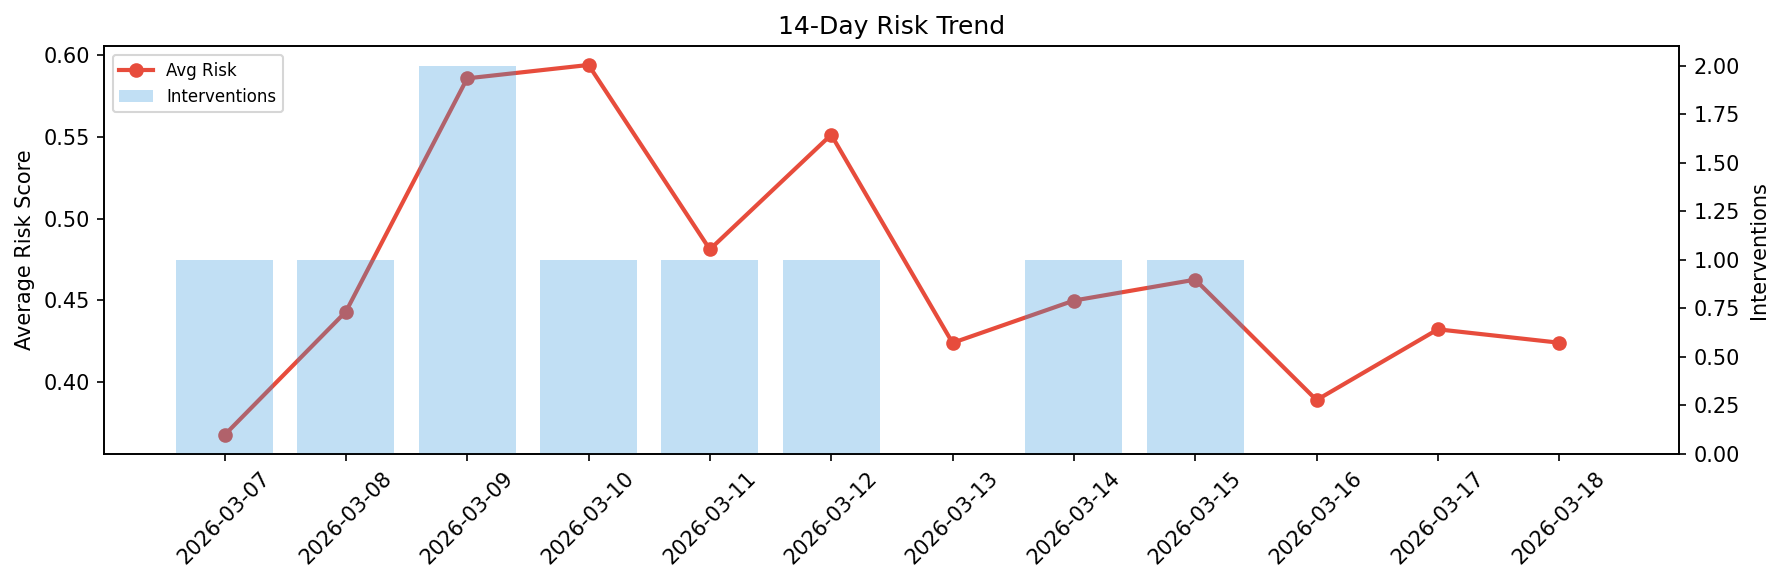
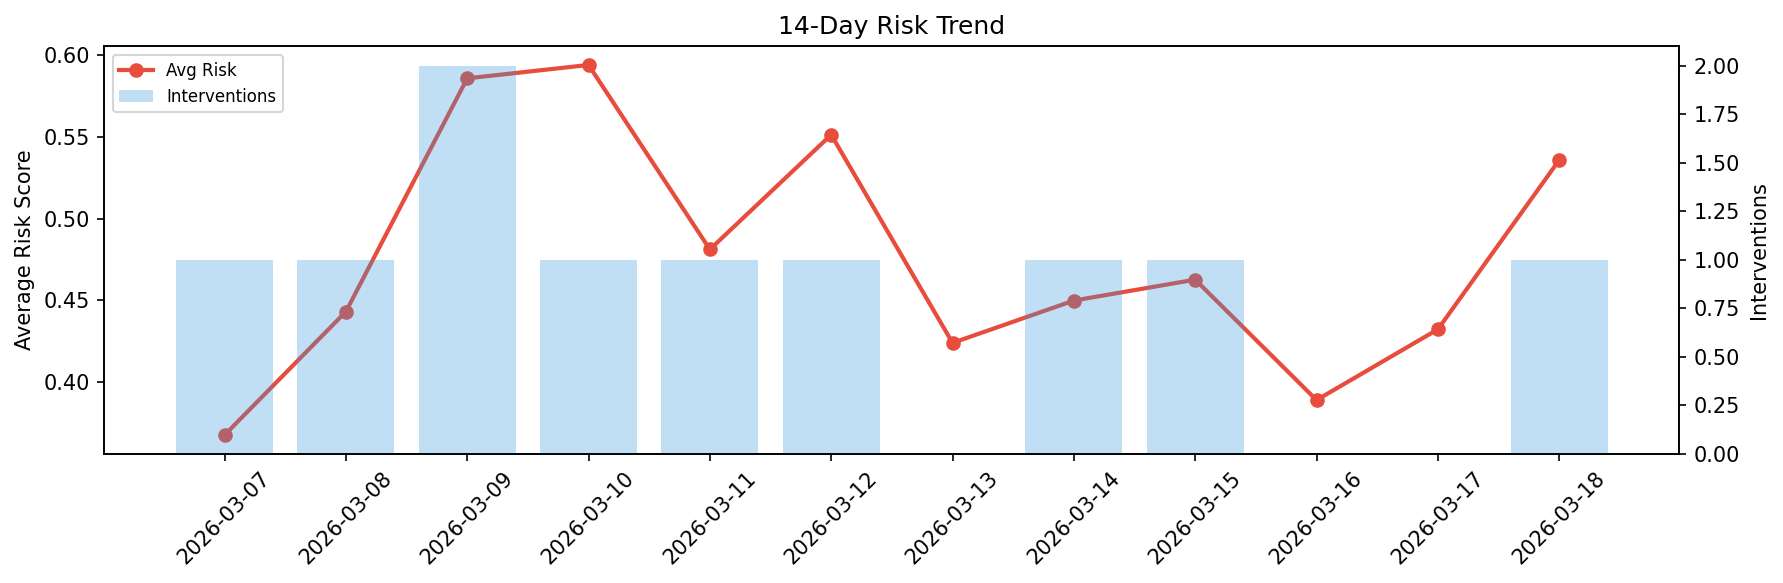
agent-improvement: daily cycle 2026-03-18T15:39

Changed region(s): [[0.802, 0.3396, 0.9254, 0.8027], [0.8637, 0.247, 0.8946, 0.3087]]

diff --git a/logs/2026-03-18.md b/logs/2026-03-18.md
@@ -1,6 +1,6 @@
 # Agent Improvement Report — 2026-03-18
 
-**Cycle ID:** `8402cc4d` | **Avg Risk:** 0.4241 | **Interventions:** 0/4
+**Cycle ID:** `d87a46e2` | **Avg Risk:** 0.5359 | **Interventions:** 1/4
 
 ![Dashboard](2026-03-18_dashboard.png)
 
@@ -10,18 +10,18 @@
 
 | Domain | Risk Score | Decision | Alerts |
 |--------|-----------|----------|--------|
-| code_review | 0.4524 | monitor | duplication |
-| incident_response | 0.4209 | monitor | mttr |
-| data_pipeline | 0.4949 | monitor | volume_anomaly |
-| deployment | 0.3284 | monitor | none |
+| code_review | 0.4952 | monitor | coverage |
+| incident_response | 0.8045 | intervene | severity, mttr |
+| data_pipeline | 0.3523 | monitor | none |
+| deployment | 0.4916 | monitor | none |
 
 ## Delta vs Yesterday
 
 | Domain | Today | Yesterday | Change |
 |--------|-------|-----------|--------|
-| code_review | 0.4524 | 0.5244 | 📉 -13.7% |
-| incident_response | 0.4209 | 0.4733 | 📉 -11.1% |
-| data_pipeline | 0.4949 | 0.4346 | 📈 13.9% |
-| deployment | 0.3284 | 0.2967 | 📈 10.7% |
+| code_review | 0.4952 | 0.5244 | 📉 -5.6% |
+| incident_response | 0.8045 | 0.4733 | 📈 70.0% |
+| data_pipeline | 0.3523 | 0.4346 | 📉 -18.9% |
+| deployment | 0.4916 | 0.2967 | 📈 65.7% |
 
 **Refinement:** `{'adjustment': 'maintain', 'trend': 'improving', 'window': 4}`
